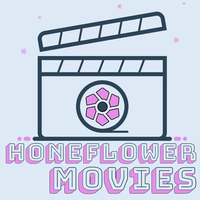
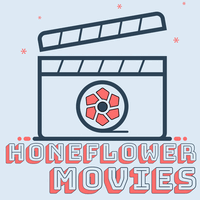
update todos in readme and replaced hm image

diff --git a/README.md b/README.md
@@ -21,5 +21,7 @@ Netlify is used to host this project. It utilizes Github to deploy continuously.
 
 ### Todo
 
+- favicon
+- Add content
 - Footer
 - Recommendations
